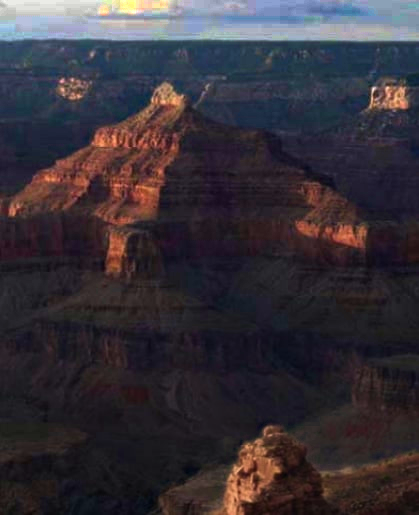
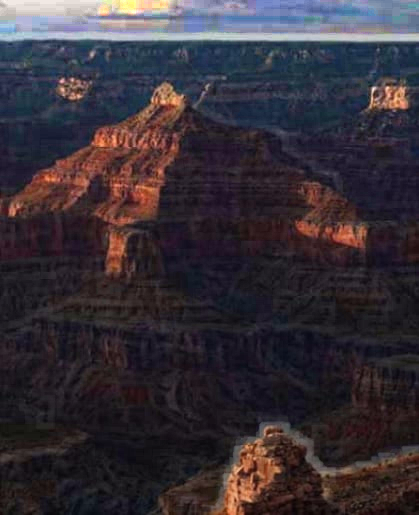
Built a faster solution but cannot put it in memory

diff --git a/dehazer_thesis.py b/dehazer_thesis.py
@@ -11,6 +11,7 @@ import cv2
 import numpy as np
 from scipy.sparse import csr_matrix, eye, lil_matrix
 from scipy.sparse.linalg import spsolve, cg
+import numba
 
 def dark_channel(im, size=15): #size = 15 for ~600x400 images, can be adjusted for different resolutions
     """Compute the dark channel of an image.
@@ -108,8 +109,10 @@ def soft_matting(I_rgb, t_coarse, win_radius=1, eps=1e-7, lam=1e-4):
     total_loop_length = (H-2*win_radius)*(W-2*win_radius)
     total_loop_idx = 0
 
-    print(K*total_loop_length*((2*win_radius+1)**2))
-    L = lil_matrix((N, N), dtype=np.float32)
+    
+    rows = np.zeros(K*K*total_loop_length)
+    cols = np.zeros(K*K*total_loop_length)
+    vals = np.zeros(K*K*total_loop_length)
 
     # For each window, compute local statistics and add to Laplacian
     for y in range(win_radius, H - win_radius):
@@ -141,19 +144,22 @@ def soft_matting(I_rgb, t_coarse, win_radius=1, eps=1e-7, lam=1e-4):
             Lw -= Q                                          # Lw = M - Q
 
             # scatter-add to global Laplacian
-            ii = np.repeat(win_inds, K).reshape(-1)
-            jj = np.tile(win_inds, K).reshape(-1)
+            ii = np.repeat(win_inds, K)
+            jj = np.tile(win_inds, K)
             kk = Lw.reshape(-1)
 
-            for idx in range(len(ii)):
-                L[ii[idx],jj[idx]] = kk[idx]
+            start = total_loop_idx * len(ii)
+            end = (total_loop_idx + 1) * len(ii)
+            rows[start:end] = ii
+            cols[start:end] = jj
+            vals[start:end] = kk
                     
             total_loop_idx+=1
 
     print("loading laplacian : 100% !")
     print("Putting it all in order (1/3)")
     # (slow !)
-    L = L.tocsr()
+    L = csr_matrix((vals, (rows, cols)), shape=(N, N))
     print("Putting it all in order (2/3)")
     # (slow !)
     # Data term: lambda * (t - t0)^2
@@ -164,13 +170,13 @@ def soft_matting(I_rgb, t_coarse, win_radius=1, eps=1e-7, lam=1e-4):
     print("loading laplacian : 100% ! Inverting matrix...")
 
     # Solve sparse linear system (slow !)
-    t_refined, info = cg(A, b, rtol=1e-6, maxiter=500)
+    t_refined, info = cg(A, b, rtol=1e-6,maxiter=500)
     if info != 0:
         print("⚠️ CG did not fully converge, info =", info)
     t_refined = t_refined.reshape(H, W).astype(np.float32)
 
     # Clamp to [0,1]
-    print("soft matting completed !")
+    print("soft matting completed ! (3/3)")
     return np.clip(t_refined, 0.0, 1.0)
 
 def recover_radiance(I, A, t, t0=0.1):
@@ -225,5 +231,5 @@ def dehaze(img_path, out_dir="dehazed_results", dc_size = 15, top_percent = 0.00
 
 # Example usage
 if __name__ == "__main__":
-    dehaze("images/haze_test.jpeg","images",
+    dehaze("hazed_images/4.jpg","dehazed_images",
            dc_size = 5, w_radius = 4, patch_avg = 3)